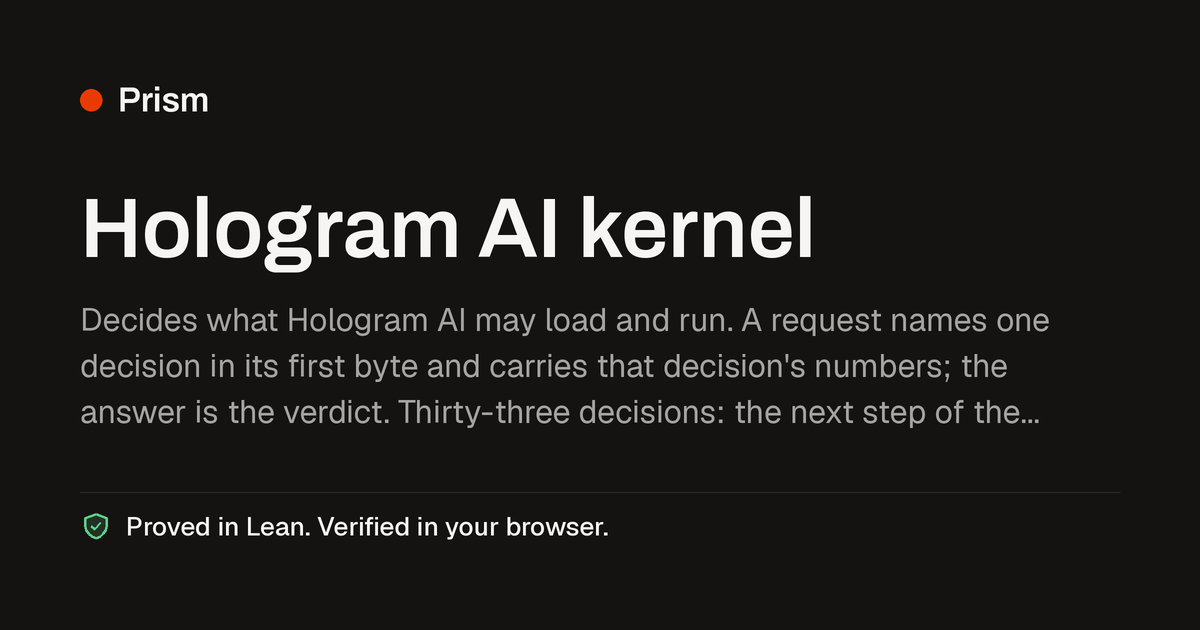
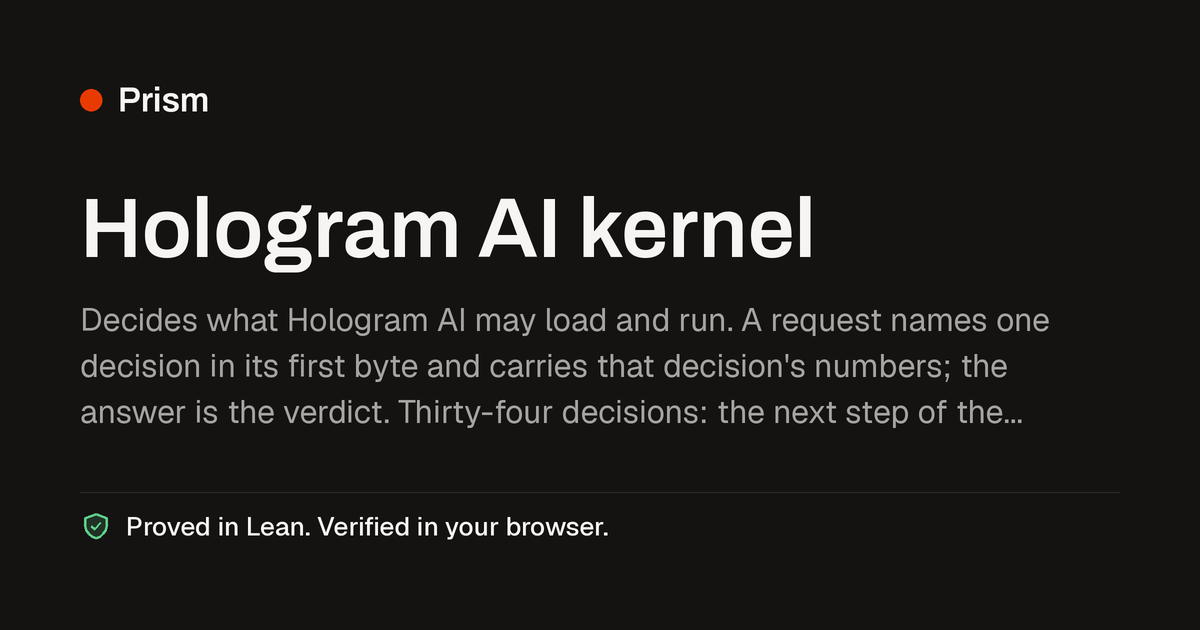
KN-34 reads its block as six 8-byte words and the claim, so the page form covers every byte; app.json and the card name decision 34

Changed region(s): [[0.4008, 0.6333, 0.8633, 0.6937]]

diff --git a/site/card.html b/site/card.html
@@ -1936,6 +1936,42 @@
       "asks": "Is this claimed sum of one 32-wide block exact?",
       "fields": [
         {
+          "at": 1,
+          "name": "Weight codes 1 to 16, two to a byte, low half first",
+          "value": 0,
+          "width": 8
+        },
+        {
+          "at": 9,
+          "name": "Weight codes 17 to 32",
+          "value": 0,
+          "width": 8
+        },
+        {
+          "at": 17,
+          "name": "Activations 1 to 8, one signed byte each",
+          "value": 0,
+          "width": 8
+        },
+        {
+          "at": 25,
+          "name": "Activations 9 to 16",
+          "value": 0,
+          "width": 8
+        },
+        {
+          "at": 33,
+          "name": "Activations 17 to 24",
+          "value": 0,
+          "width": 8
+        },
+        {
+          "at": 41,
+          "name": "Activations 25 to 32",
+          "value": 0,
+          "width": 8
+        },
+        {
           "at": 49,
           "name": "Claimed sum plus 32768",
           "value": 32768,

diff --git a/crates/conformance/tests/kernel.rs b/crates/conformance/tests/kernel.rs
@@ -2625,18 +2625,18 @@ fn kernel_kn_34() {
     assert_pinned(
         &proofs,
         "parts_cover_every_product",
-        "(((Kernel.Block::positiveFrom value remaining) + (Kernel.Block::negativeFrom value remaining)) = (totalFrom value remaining))",
+        "(((Kernel.Block::positiveFrom weights activations remaining) + (Kernel.Block::negativeFrom weights activations remaining)) = (totalFrom weights activations remaining))",
         "Quot.sound, propext",
+    );
+    let found = declaration(&kernel, "byteFromEnd");
+    assert!(
+        found.contains("body: (match index\n    | Nat.zero => (prim remainder word 256 0 : Nat)\n    | Nat.succ rest => (byteFromEnd (prim quotient word 256 0 : Nat) rest))"),
+        "byteFromEnd changed:\n{found}"
     );
     let found = declaration(&kernel, "weightCode");
     assert!(
-        found.contains("body: (prim remainder (prim quotient (Kernel.Wire::fieldAt value (1 + (prim quotient place 2 0 : Nat)) 1) (if ((prim remainder place 2 0 : Nat) =? 0) then 1 else 16) 0 : Nat) 16 0 : Nat)"),
+        found.contains("body: (if ((prim remainder index 2 0 : Nat) =? 1) then (prim remainder (byteFromEnd weights (prim quotient index 2 0 : Nat)) 16 0 : Nat) else (prim quotient (byteFromEnd weights (prim quotient index 2 0 : Nat)) 16 0 : Nat))"),
         "weightCode changed:\n{found}"
-    );
-    let found = declaration(&kernel, "activationByte");
-    assert!(
-        found.contains("body: (Kernel.Wire::fieldAt value (17 + place) 1)"),
-        "activationByte changed:\n{found}"
     );
     let found = declaration(&kernel, "weightSize");
     assert!(
@@ -2661,13 +2661,18 @@ fn kernel_kn_34() {
     );
     let found = declaration(&kernel, "positiveFrom");
     assert!(
-        found.contains("body: (match remaining\n    | Nat.zero => 0\n    | Nat.succ rest => ((if (signsAgree (weightCode value rest) (activationByte value rest)) then (term (weightCode value rest) (activationByte value rest)) else 0) + (positiveFrom value rest)))"),
+        found.contains("body: (match remaining\n    | Nat.zero => 0\n    | Nat.succ rest => ((if (signsAgree (weightCode weights rest) (byteFromEnd activations rest)) then (term (weightCode weights rest) (byteFromEnd activations rest)) else 0) + (positiveFrom weights activations rest)))"),
         "positiveFrom changed:\n{found}"
     );
     let found = declaration(&kernel, "negativeFrom");
     assert!(
-        found.contains("body: (match remaining\n    | Nat.zero => 0\n    | Nat.succ rest => ((if (signsAgree (weightCode value rest) (activationByte value rest)) then 0 else (term (weightCode value rest) (activationByte value rest))) + (negativeFrom value rest)))"),
+        found.contains("body: (match remaining\n    | Nat.zero => 0\n    | Nat.succ rest => ((if (signsAgree (weightCode weights rest) (byteFromEnd activations rest)) then 0 else (term (weightCode weights rest) (byteFromEnd activations rest))) + (negativeFrom weights activations rest)))"),
         "negativeFrom changed:\n{found}"
+    );
+    let found = declaration(&kernel, "halfActivations");
+    assert!(
+        found.contains("body: ((prim multiply high 18446744073709551616 : Nat) + low)"),
+        "halfActivations changed:\n{found}"
     );
     let found = declaration(&kernel, "accepts");
     assert!(
@@ -2676,7 +2681,7 @@ fn kernel_kn_34() {
     );
     let found = declaration(&kernel, "blockCheckAnswer");
     assert!(
-        found.contains("body: (if ((Foundation.Bytes::byteLength value) =? 53) then (if (accepts (Kernel.Wire::fieldAt value 49 4) (positiveFrom value 32) (negativeFrom value 32)) then (prim utf8_encode \"exact\" : Bytes) else (prim utf8_encode \"differs\" : Bytes)) else (prim utf8_encode \"invalid request\" : Bytes))"),
+        found.contains("body: (if ((Foundation.Bytes::byteLength value) =? 53) then (if (accepts (Kernel.Wire::fieldAt value 49 4) ((positiveFrom (Kernel.Wire::fieldAt value 1 8) (halfActivations (Kernel.Wire::fieldAt value 17 8) (Kernel.Wire::fieldAt value 25 8)) 16) + (positiveFrom (Kernel.Wire::fieldAt value 9 8) (halfActivations (Kernel.Wire::fieldAt value 33 8) (Kernel.Wire::fieldAt value 41 8)) 16)) ((negativeFrom (Kernel.Wire::fieldAt value 1 8) (halfActivations (Kernel.Wire::fieldAt value 17 8) (Kernel.Wire::fieldAt value 25 8)) 16) + (negativeFrom (Kernel.Wire::fieldAt value 9 8) (halfActivations (Kernel.Wire::fieldAt value 33 8) (Kernel.Wire::fieldAt value 41 8)) 16))) then (prim utf8_encode \"exact\" : Bytes) else (prim utf8_encode \"differs\" : Bytes)) else (prim utf8_encode \"invalid request\" : Bytes))"),
         "blockCheckAnswer changed:\n{found}"
     );
     assert_routed(34, "Kernel.Block::blockCheckAnswer");

diff --git a/app/src/Kernel/Block.lex.tex b/app/src/Kernel/Block.lex.tex
@@ -7,19 +7,20 @@
 \title{Bounded byte buffer}
 \begin{semanticmodule}
 definition{
-  name: weightCode,
-  parameters: [value : Bytes, place : Nat],
+  name: byteFromEnd,
+  parameters: [word : Nat, index : Nat],
   result: Nat,
-  body: (prim remainder (prim quotient (Kernel.Wire::fieldAt value (1 + (prim quotient place 2 0 : Nat)) 1) (if ((prim remainder place 2 0 : Nat) =? 0) then 1 else 16) 0 : Nat) 16 0 : Nat),
-  axioms: [Quot.sound, propext]
+  body: (match index
+    | Nat.zero => (prim remainder word 256 0 : Nat)
+    | Nat.succ rest => (byteFromEnd (prim quotient word 256 0 : Nat) rest)),
+  recursive_argument: index
 }
 
 definition{
-  name: activationByte,
-  parameters: [value : Bytes, place : Nat],
+  name: weightCode,
+  parameters: [weights : Nat, index : Nat],
   result: Nat,
-  body: (Kernel.Wire::fieldAt value (17 + place) 1),
-  axioms: [Quot.sound, propext]
+  body: (if ((prim remainder index 2 0 : Nat) =? 1) then (prim remainder (byteFromEnd weights (prim quotient index 2 0 : Nat)) 16 0 : Nat) else (prim quotient (byteFromEnd weights (prim quotient index 2 0 : Nat)) 16 0 : Nat))
 }
 
 definition{
@@ -52,24 +53,29 @@ definition{
 
 definition{
   name: positiveFrom,
-  parameters: [value : Bytes, remaining : Nat],
+  parameters: [weights : Nat, activations : Nat, remaining : Nat],
   result: Nat,
   body: (match remaining
     | Nat.zero => 0
-    | Nat.succ rest => ((if (signsAgree (weightCode value rest) (activationByte value rest)) then (term (weightCode value rest) (activationByte value rest)) else 0) + (positiveFrom value rest))),
-  axioms: [Quot.sound, propext],
+    | Nat.succ rest => ((if (signsAgree (weightCode weights rest) (byteFromEnd activations rest)) then (term (weightCode weights rest) (byteFromEnd activations rest)) else 0) + (positiveFrom weights activations rest))),
   recursive_argument: remaining
 }
 
 definition{
   name: negativeFrom,
-  parameters: [value : Bytes, remaining : Nat],
+  parameters: [weights : Nat, activations : Nat, remaining : Nat],
   result: Nat,
   body: (match remaining
     | Nat.zero => 0
-    | Nat.succ rest => ((if (signsAgree (weightCode value rest) (activationByte value rest)) then 0 else (term (weightCode value rest) (activationByte value rest))) + (negativeFrom value rest))),
-  axioms: [Quot.sound, propext],
+    | Nat.succ rest => ((if (signsAgree (weightCode weights rest) (byteFromEnd activations rest)) then 0 else (term (weightCode weights rest) (byteFromEnd activations rest))) + (negativeFrom weights activations rest))),
   recursive_argument: remaining
+}
+
+definition{
+  name: halfActivations,
+  parameters: [high : Nat, low : Nat],
+  result: Nat,
+  body: ((prim multiply high 18446744073709551616 : Nat) + low)
 }
 
 definition{
@@ -83,7 +89,7 @@ definition{
   name: blockCheckAnswer,
   parameters: [value : Bytes],
   result: Bytes,
-  body: (if ((Foundation.Bytes::byteLength value) =? 53) then (if (accepts (Kernel.Wire::fieldAt value 49 4) (positiveFrom value 32) (negativeFrom value 32)) then (prim utf8_encode "exact" : Bytes) else (prim utf8_encode "differs" : Bytes)) else (prim utf8_encode "invalid request" : Bytes)),
+  body: (if ((Foundation.Bytes::byteLength value) =? 53) then (if (accepts (Kernel.Wire::fieldAt value 49 4) ((positiveFrom (Kernel.Wire::fieldAt value 1 8) (halfActivations (Kernel.Wire::fieldAt value 17 8) (Kernel.Wire::fieldAt value 25 8)) 16) + (positiveFrom (Kernel.Wire::fieldAt value 9 8) (halfActivations (Kernel.Wire::fieldAt value 33 8) (Kernel.Wire::fieldAt value 41 8)) 16)) ((negativeFrom (Kernel.Wire::fieldAt value 1 8) (halfActivations (Kernel.Wire::fieldAt value 17 8) (Kernel.Wire::fieldAt value 25 8)) 16) + (negativeFrom (Kernel.Wire::fieldAt value 9 8) (halfActivations (Kernel.Wire::fieldAt value 33 8) (Kernel.Wire::fieldAt value 41 8)) 16))) then (prim utf8_encode "exact" : Bytes) else (prim utf8_encode "differs" : Bytes)) else (prim utf8_encode "invalid request" : Bytes)),
   axioms: [Quot.sound, propext]
 }
 \end{semanticmodule}

diff --git a/app/src/Proofs/Block.lex.tex b/app/src/Proofs/Block.lex.tex
@@ -7,12 +7,11 @@
 \begin{semanticmodule}
 definition{
   name: totalFrom,
-  parameters: [value : Bytes, remaining : Nat],
+  parameters: [weights : Nat, activations : Nat, remaining : Nat],
   result: Nat,
   body: (match remaining
     | Nat.zero => 0
-    | Nat.succ rest => ((Kernel.Block::term (Kernel.Block::weightCode value rest) (Kernel.Block::activationByte value rest)) + (totalFrom value rest))),
-  axioms: [Quot.sound, propext],
+    | Nat.succ rest => ((Kernel.Block::term (Kernel.Block::weightCode weights rest) (Kernel.Block::byteFromEnd activations rest)) + (totalFrom weights activations rest))),
   recursive_argument: remaining
 }
 
@@ -82,8 +81,8 @@ theorem{
 
 theorem{
   name: parts_cover_every_product,
-  parameters: [value : Bytes, remaining : Nat],
-  statement: (((Kernel.Block::positiveFrom value remaining) + (Kernel.Block::negativeFrom value remaining)) = (totalFrom value remaining)),
+  parameters: [weights : Nat, activations : Nat, remaining : Nat],
+  statement: (((Kernel.Block::positiveFrom weights activations remaining) + (Kernel.Block::negativeFrom weights activations remaining)) = (totalFrom weights activations remaining)),
   proof: induction{
     branches: [
       {
